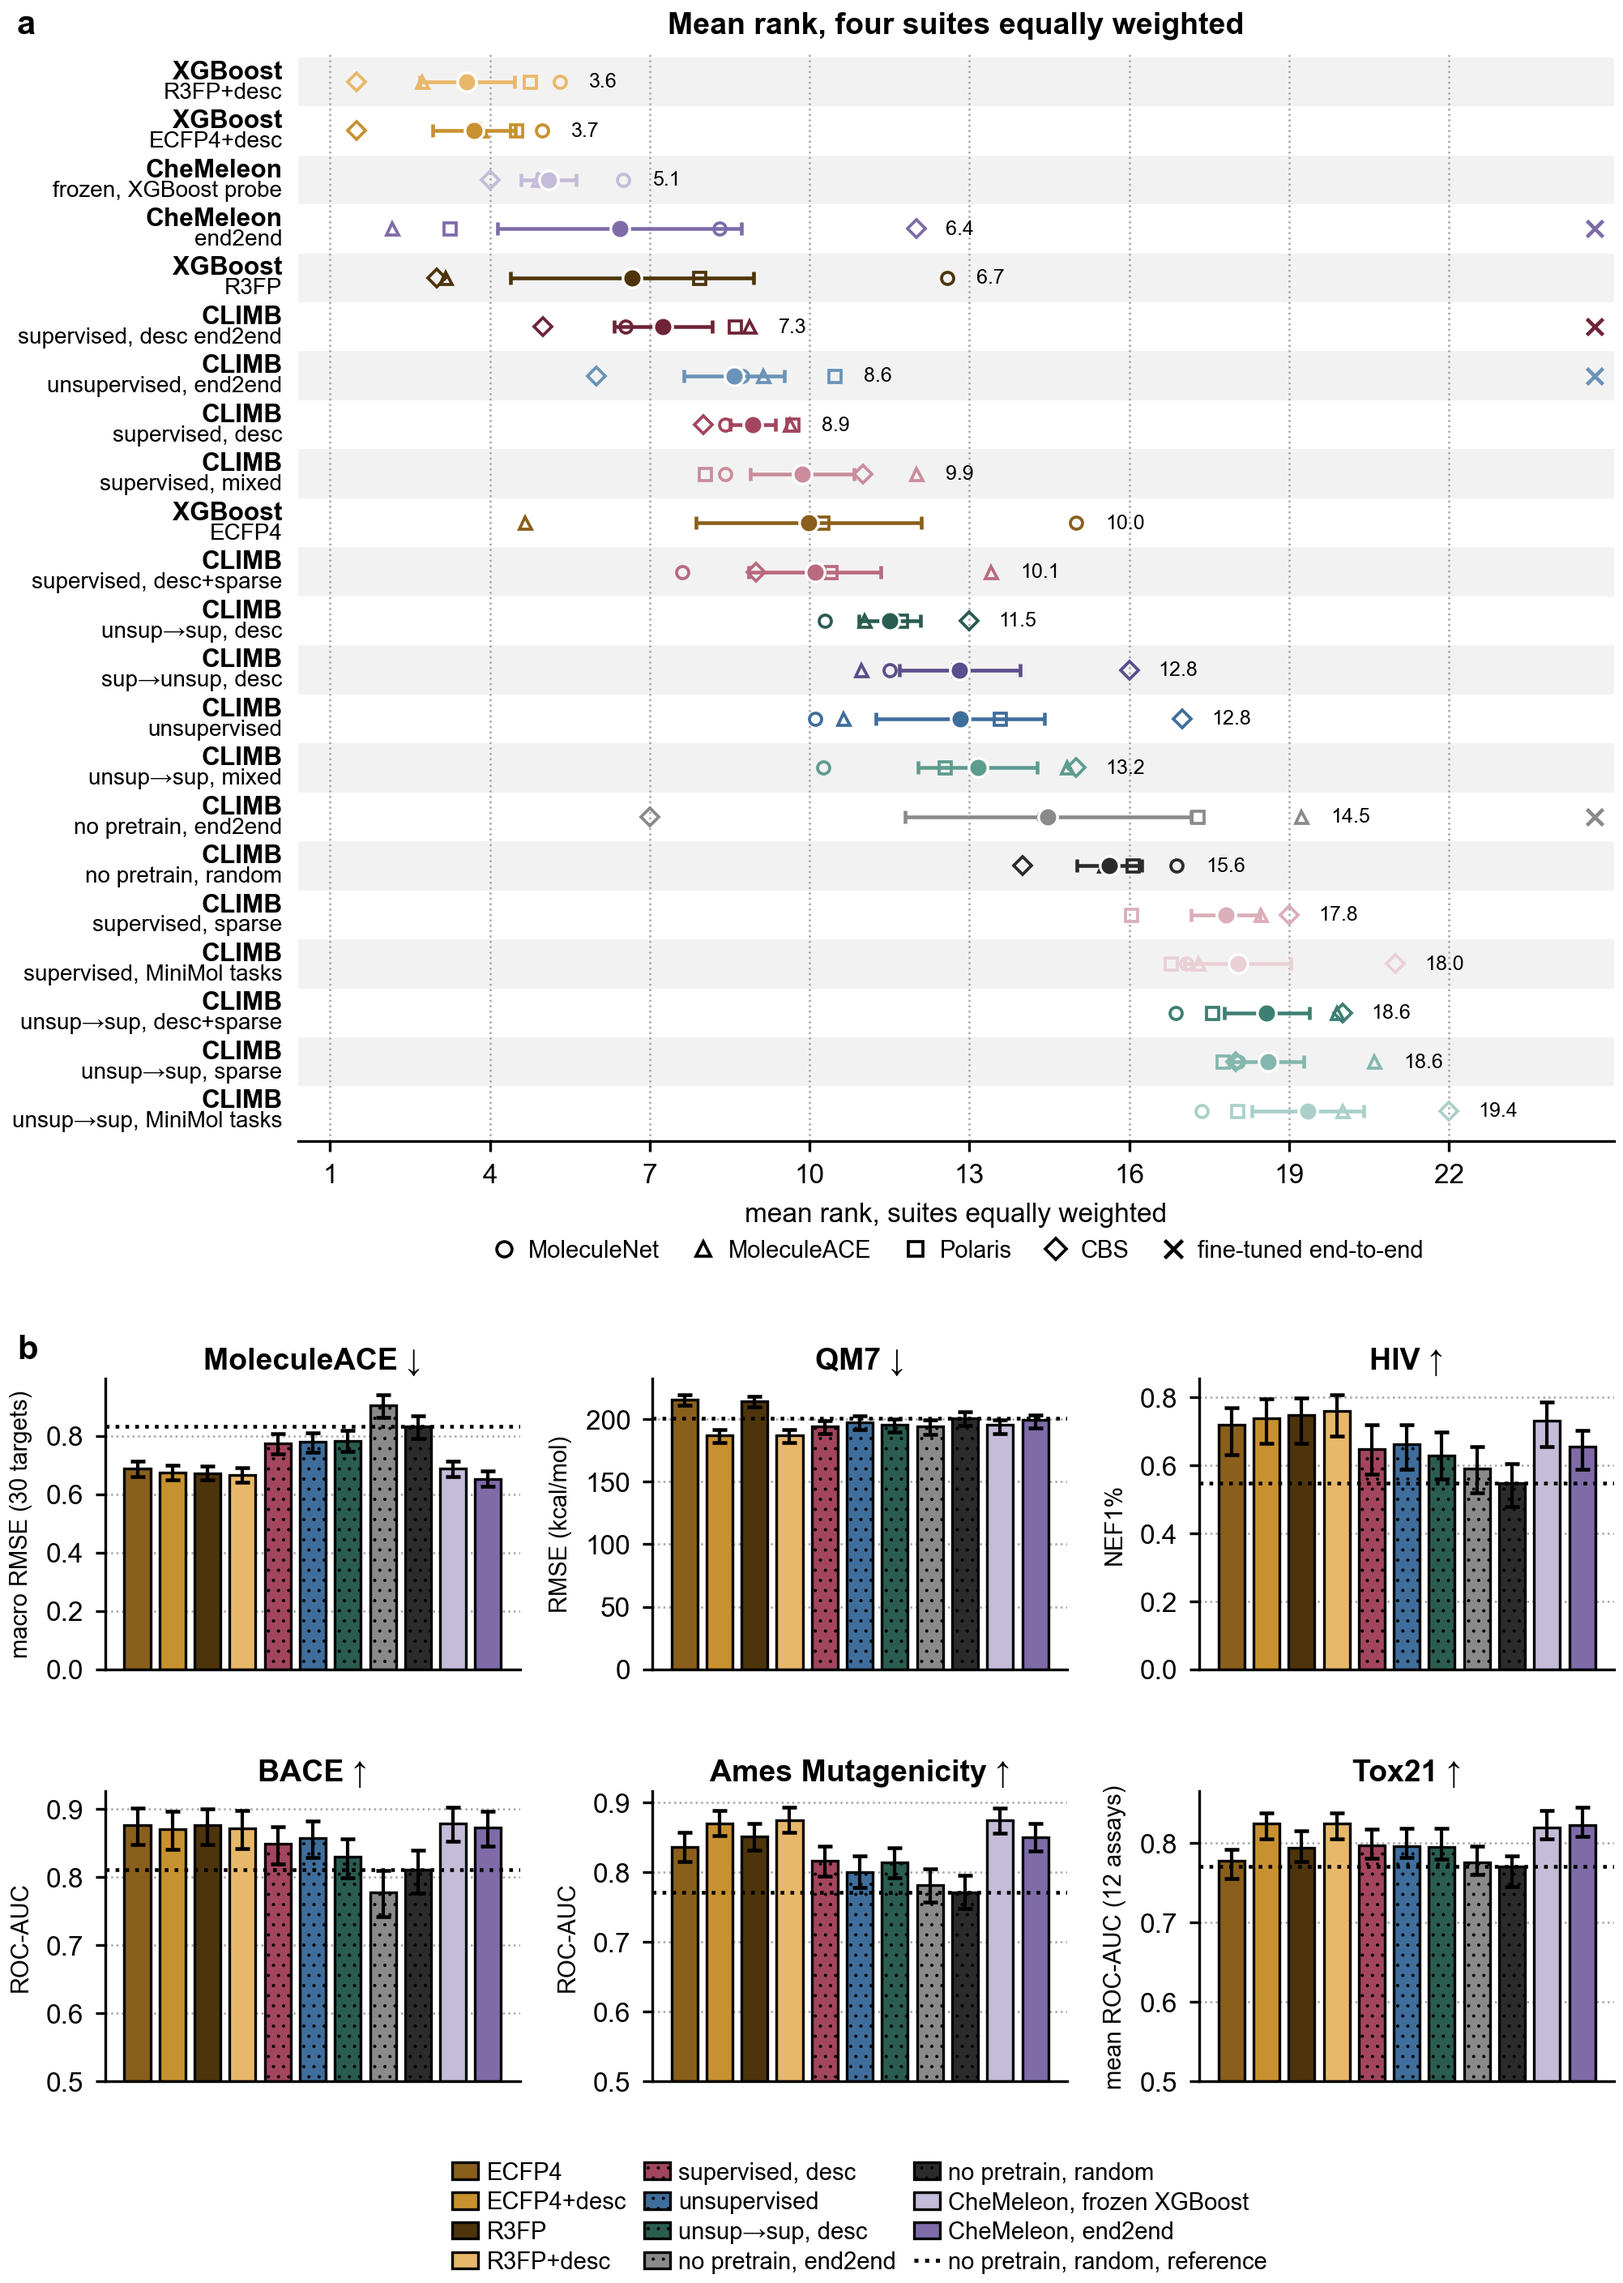
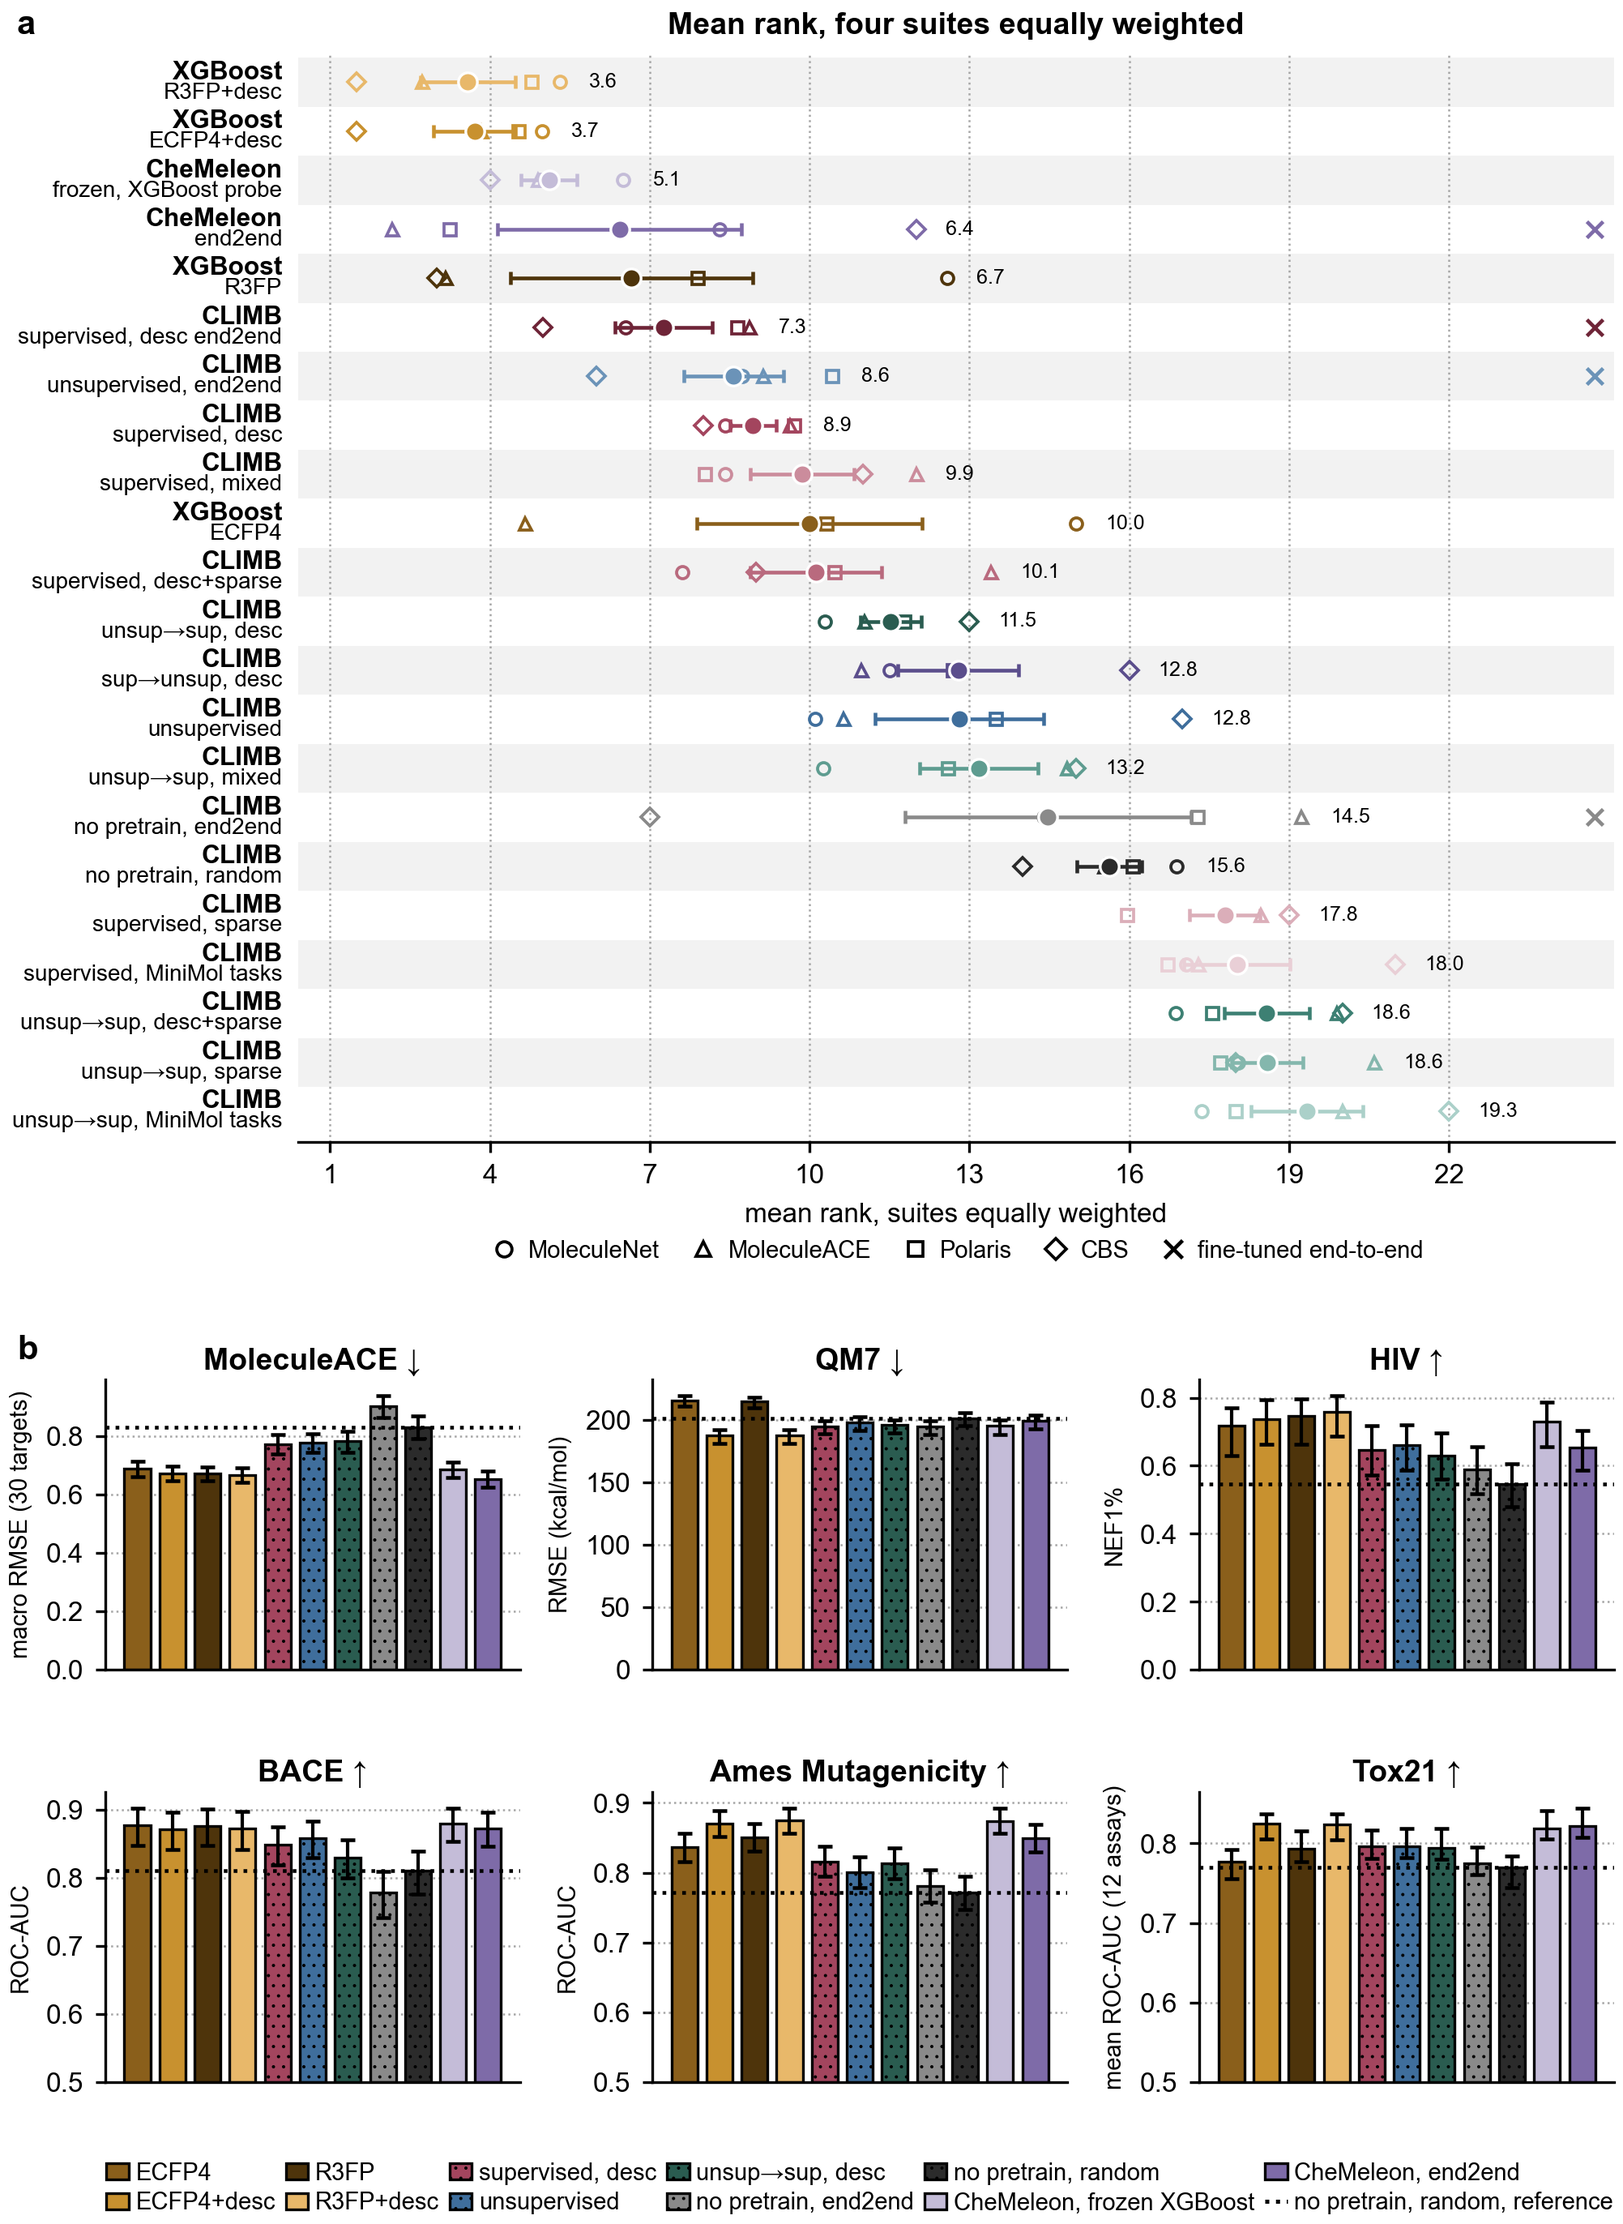
fig_A legend: two rows of six, which fits only because panel b moved left
'Two rows and way more columns' -- and six columns now fits where it did not before. The
legend did not change; the figure did. Panel (b) starting at x=0.0665 instead of 0.185 means
the content already spans nearly the full width, so a key centred on 0.5 no longer overhangs
it. The same legend that set the plate width two commits ago is now narrower than the panels.

Measured after the margin change, at handlelength/handletextpad/columnspacing tightened to
0.95/0.28/0.45:

    5 columns -> 6.68in
    6 columns -> 6.68 x 9.14in    two rows, and 0.24in shorter than the 3x4 it replaces
    7 columns -> 7.70in           overhangs; the key sets the plate width again

Left-edge alignment holds: A1's longest row label and B's first y-label both land at x=0.0090.
A1's labels are right-aligned to its axis, so the shorter ones leave a ragged edge above B's
solid one -- that is the labels' own lengths, not a layout offset.

diff --git a/figures/fig_A.py b/figures/fig_A.py
@@ -123,19 +123,20 @@ def build(height=HEIGHT, top_frac=0.62):
     _h2 = A2.legend_handles()
     fig.legend(handles=_h2, loc="upper center",
                bbox_to_anchor=((b_x0 + b_x1) / 2, b_bot - 0.030),
-               # WIDER, NOT LONGER was the instruction (user 2026-08-20), and 4 columns is as
-               # wide as it goes. Measured at the tightened handlelength/columnspacing below,
-               # which are already past their defaults:
-               #     4 columns -> 6.68in     fits the 6.69in text block
-               #     5 columns -> 6.85in     +2.4%
-               #     6 columns -> 7.21in     +7.8%
-               # Past 4, the legend rather than the panels sets the plate width, LaTeX scales the
-               # whole figure down to fit, and every font shrinks with it -- so a wider legend
-               # makes worse use of the page, not better. The labels are what cost the width
-               # ("CheMeleon, frozen XGBoost", "no pretrain, random, reference"); shortening them
-               # would buy a fifth column and is the only lever left if 4 is ever not enough.
-               ncol=row_ncol(_h2, rows=4), frameon=False, fontsize=FS["legend"], handlelength=1.1,
-               handletextpad=0.35, labelspacing=0.3, columnspacing=0.75, borderpad=0.0,
+               # TWO ROWS, SIX COLUMNS (user 2026-08-20: "two rows and way more columns").
+               #
+               # Six columns did NOT fit when this was first tried -- 7.21in against a 6.69in text
+               # block. What changed is not the legend: it is that panel (b) now starts at
+               # x=0.0665 instead of 0.185, so the figure's content already spans nearly the full
+               # width and a legend centred on 0.5 no longer overhangs it. The same key that set
+               # the plate width before is now narrower than the panels.
+               #
+               # Re-measured after the margin change:
+               #     5 columns -> 6.68 x 9.26in
+               #     6 columns -> 6.68 x 9.26in     <- two rows, and 0.12in shorter than 3x4
+               #     7 columns -> 7.70 x 9.14in     overhangs, plate width set by the key again
+               ncol=row_ncol(_h2, rows=2), frameon=False, fontsize=FS["legend"], handlelength=0.95,
+               handletextpad=0.28, labelspacing=0.3, columnspacing=0.45, borderpad=0.0,
                labelcolor=INK)
     return fig
 
